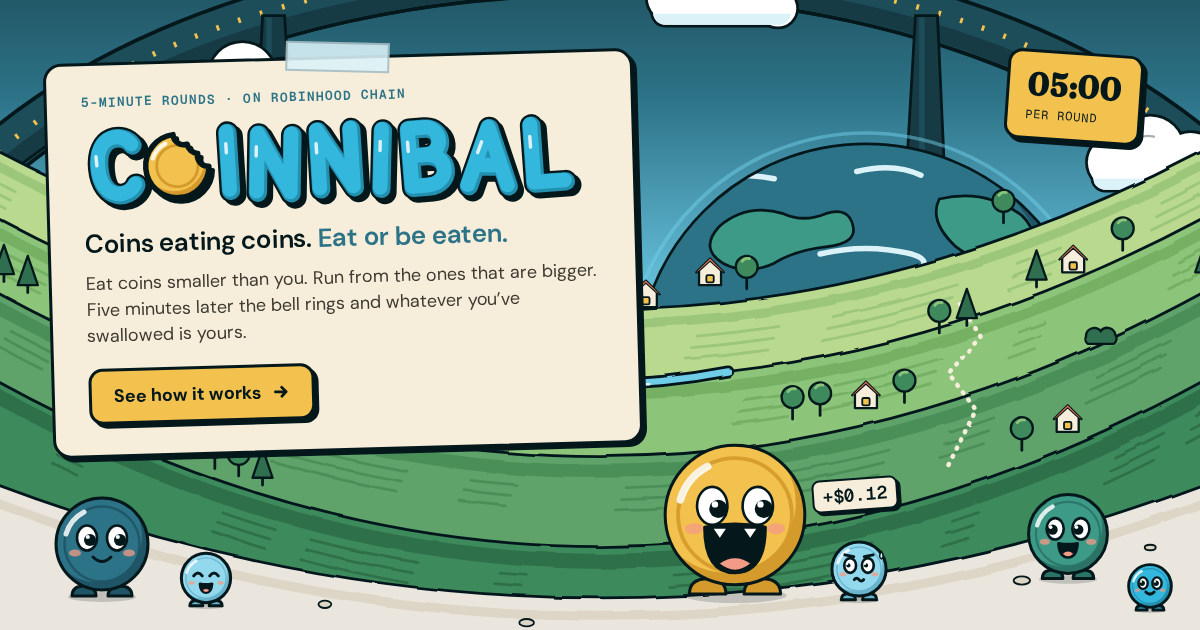
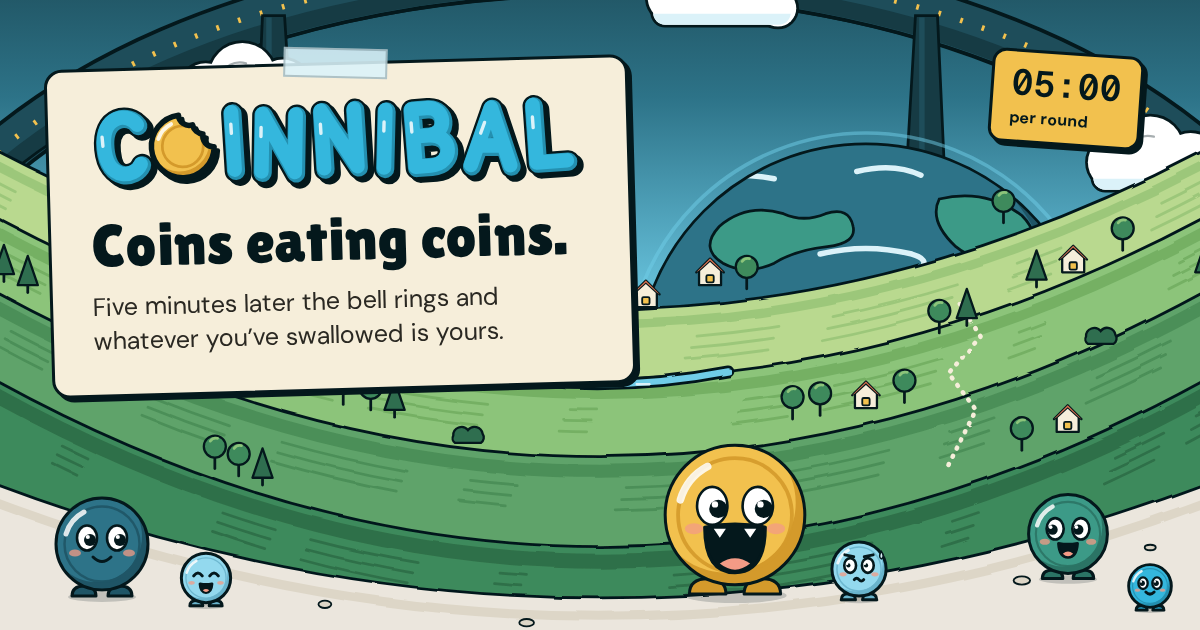
OG image: Lilita One headline, the swallowed-is-yours line, no fake button
The brand kit's display face is now Lilita One (one weight, upright,
font-synthesis off): the art kit inlines it from the web app's
@fontsource package, .disp drops the Fraunces axes, weights and tight
tracking, the italic banner lines and WONK emphasis become upright with
colour, and the generator checks Lilita One is loaded.

The Open Graph card keeps the ring scene and its coins and is rebuilt as
the hero card: the wordmark, "Coins eating coins." in the display face and
"Five minutes later the bell rings and whatever you've swallowed is
yours." The baked-in "See how it works" button, the made-up +$0.12 tag
and the mono kicker are gone; the 05:00 round clock stays, in mono.
Only apps/web/public/og-coinnibal.png is regenerated (the other committed
copies are icons without text). README: fonts and outputs brought up to
date.

Changed region(s): [[0.0308, 0.0603, 0.555, 0.754], [0.8017, 0.0603, 0.9558, 0.2413], [0.6783, 0.754, 0.7708, 0.8444]]

diff --git a/brand/README.md b/brand/README.md
@@ -2,7 +2,8 @@
 
 The social and web art of Coinnibal, drawn in the **Ring Storybook** language: confident ink outlines
 (`#04181C`), flat cel fills with one shade tone, hard offset shadows (never blurred), cream die-cut
-stickers, Fraunces for display, DM Sans for reading and Geist Mono for every number and kicker. The
+stickers, Lilita One for display (one weight, upright: emphasis is colour), DM Sans for reading and
+Geist Mono for numbers (the round clock, prices, counts). The
 source of truth is the spec (`docs/specs/2026-10-29-elymum-on-elysium.md`, section 6) and the
 reference page `docs/design/storybook-reference.html`; the drawings here are copied from it.
 
@@ -14,9 +15,9 @@ node brand/generate.mjs og post-mint   # only some jobs
 node brand/generate.mjs --list     # the jobs and their files
 ```
 
-It needs only what the repository already installs: Playwright and the `@fontsource-variable`
-fonts of `apps/web` (fonts are inlined as data URIs; when they are missing the templates fall back
-to Google Fonts). Chromium comes from `CHROME_PATH` or Playwright's own browser
+It needs only what the repository already installs: Playwright and the `@fontsource` fonts of
+`apps/web` (fonts are inlined as data URIs; when they are missing the templates fall back to Google
+Fonts). Chromium comes from `CHROME_PATH` or Playwright's own browser
 (`pnpm -F @elymum/web exec playwright install chromium` if you have none).
 
 ## Outputs (`brand/out/`)
@@ -25,7 +26,7 @@ to Google Fonts). Chromium comes from `CHROME_PATH` or Playwright's own browser
 |---|---|---|
 | `x/x-avatar-400.png`, `x/x-avatar-1000.png` | 400, 1000 square | X profile picture (circle-safe): the sun coin on the ring at dusk |
 | `x/x-banner-1500x500.png`, `x/x-banner-3000x1000.png` | 1500x500, @2x | X header: the ring scene, the hunter chasing a snack, the wordmark sticker on the right (the avatar covers the lower left) |
-| `web/og-elymum.png` | 1200x630 | Open Graph / Twitter card. **Also written to `apps/web/public/og-elymum.png`** (index.html points at it) |
+| `web/og-coinnibal.png` | 1200x630 | Open Graph / Twitter card: the hero card ("Coins eating coins.") over the ring scene. **Also written to `apps/web/public/og-coinnibal.png`** (index.html points at it) |
 | `web/favicon-32.png` | 32 | The CoinMark (a cyan coin with a bite out of it, fat cream C). **Also `apps/web/public/favicon-32.png`** |
 | `web/apple-touch-icon.png` | 180 | CoinMark on the night trench with seigaiha. **Also `apps/web/public/apple-touch-icon.png`** |
 | `web/coin-mark-512.png` | 512 | The mark alone, transparent, for anything else. **Also `apps/web/public/icon-512.png`** (web manifest) |
@@ -37,7 +38,8 @@ to Google Fonts). Chromium comes from `CHROME_PATH` or Playwright's own browser
 | `stickers/sticker-sheet.png` | 1800x1200 | The cast of coins, the mark and the die-cut wordmark |
 | `stickers/sticker-<name>.png` | 500 square, transparent | One die-cut sticker per character: hunter, snack, smug, happy, smile, open, sleepy |
 
-The PNGs are committed (about 3 MB in all) so people can grab them without running anything.
+`brand/out/` is not committed (git ignores `out/`); the copies in `apps/web/public` are. After a change to a
+template, regenerate only the jobs whose committed copy changes (`node brand/generate.mjs og`) and look at it.
 
 ## Rules the templates follow
 
